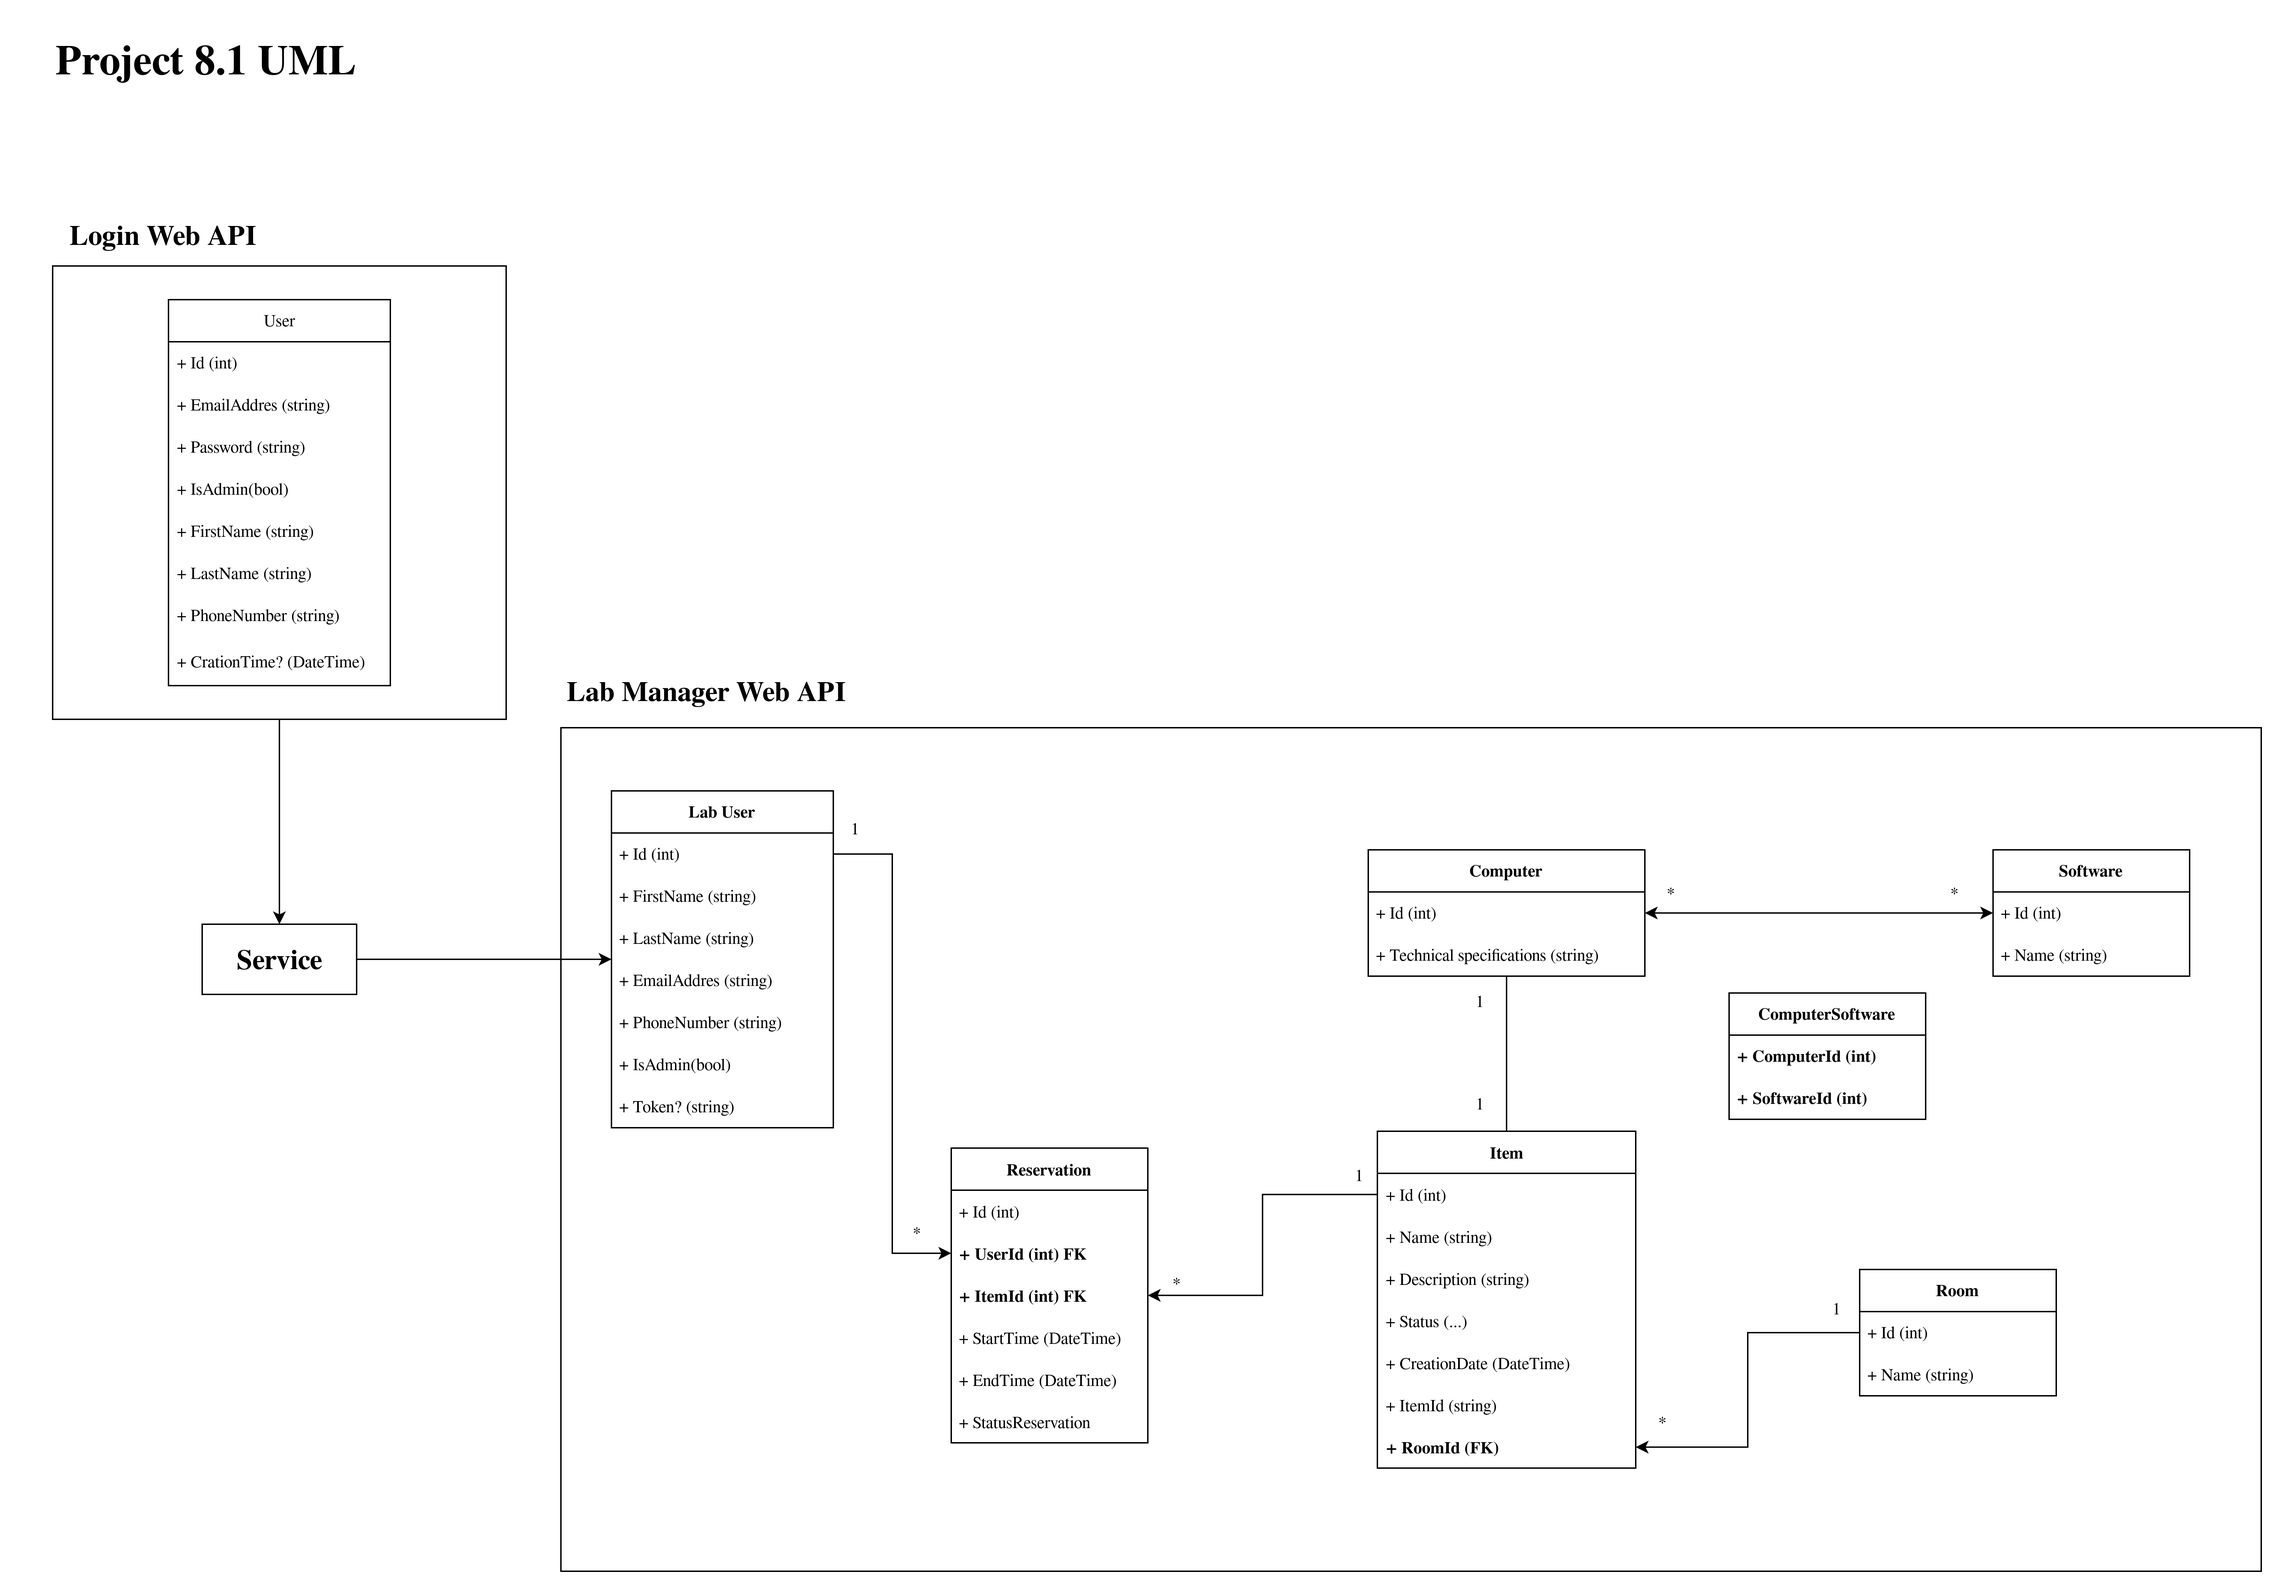
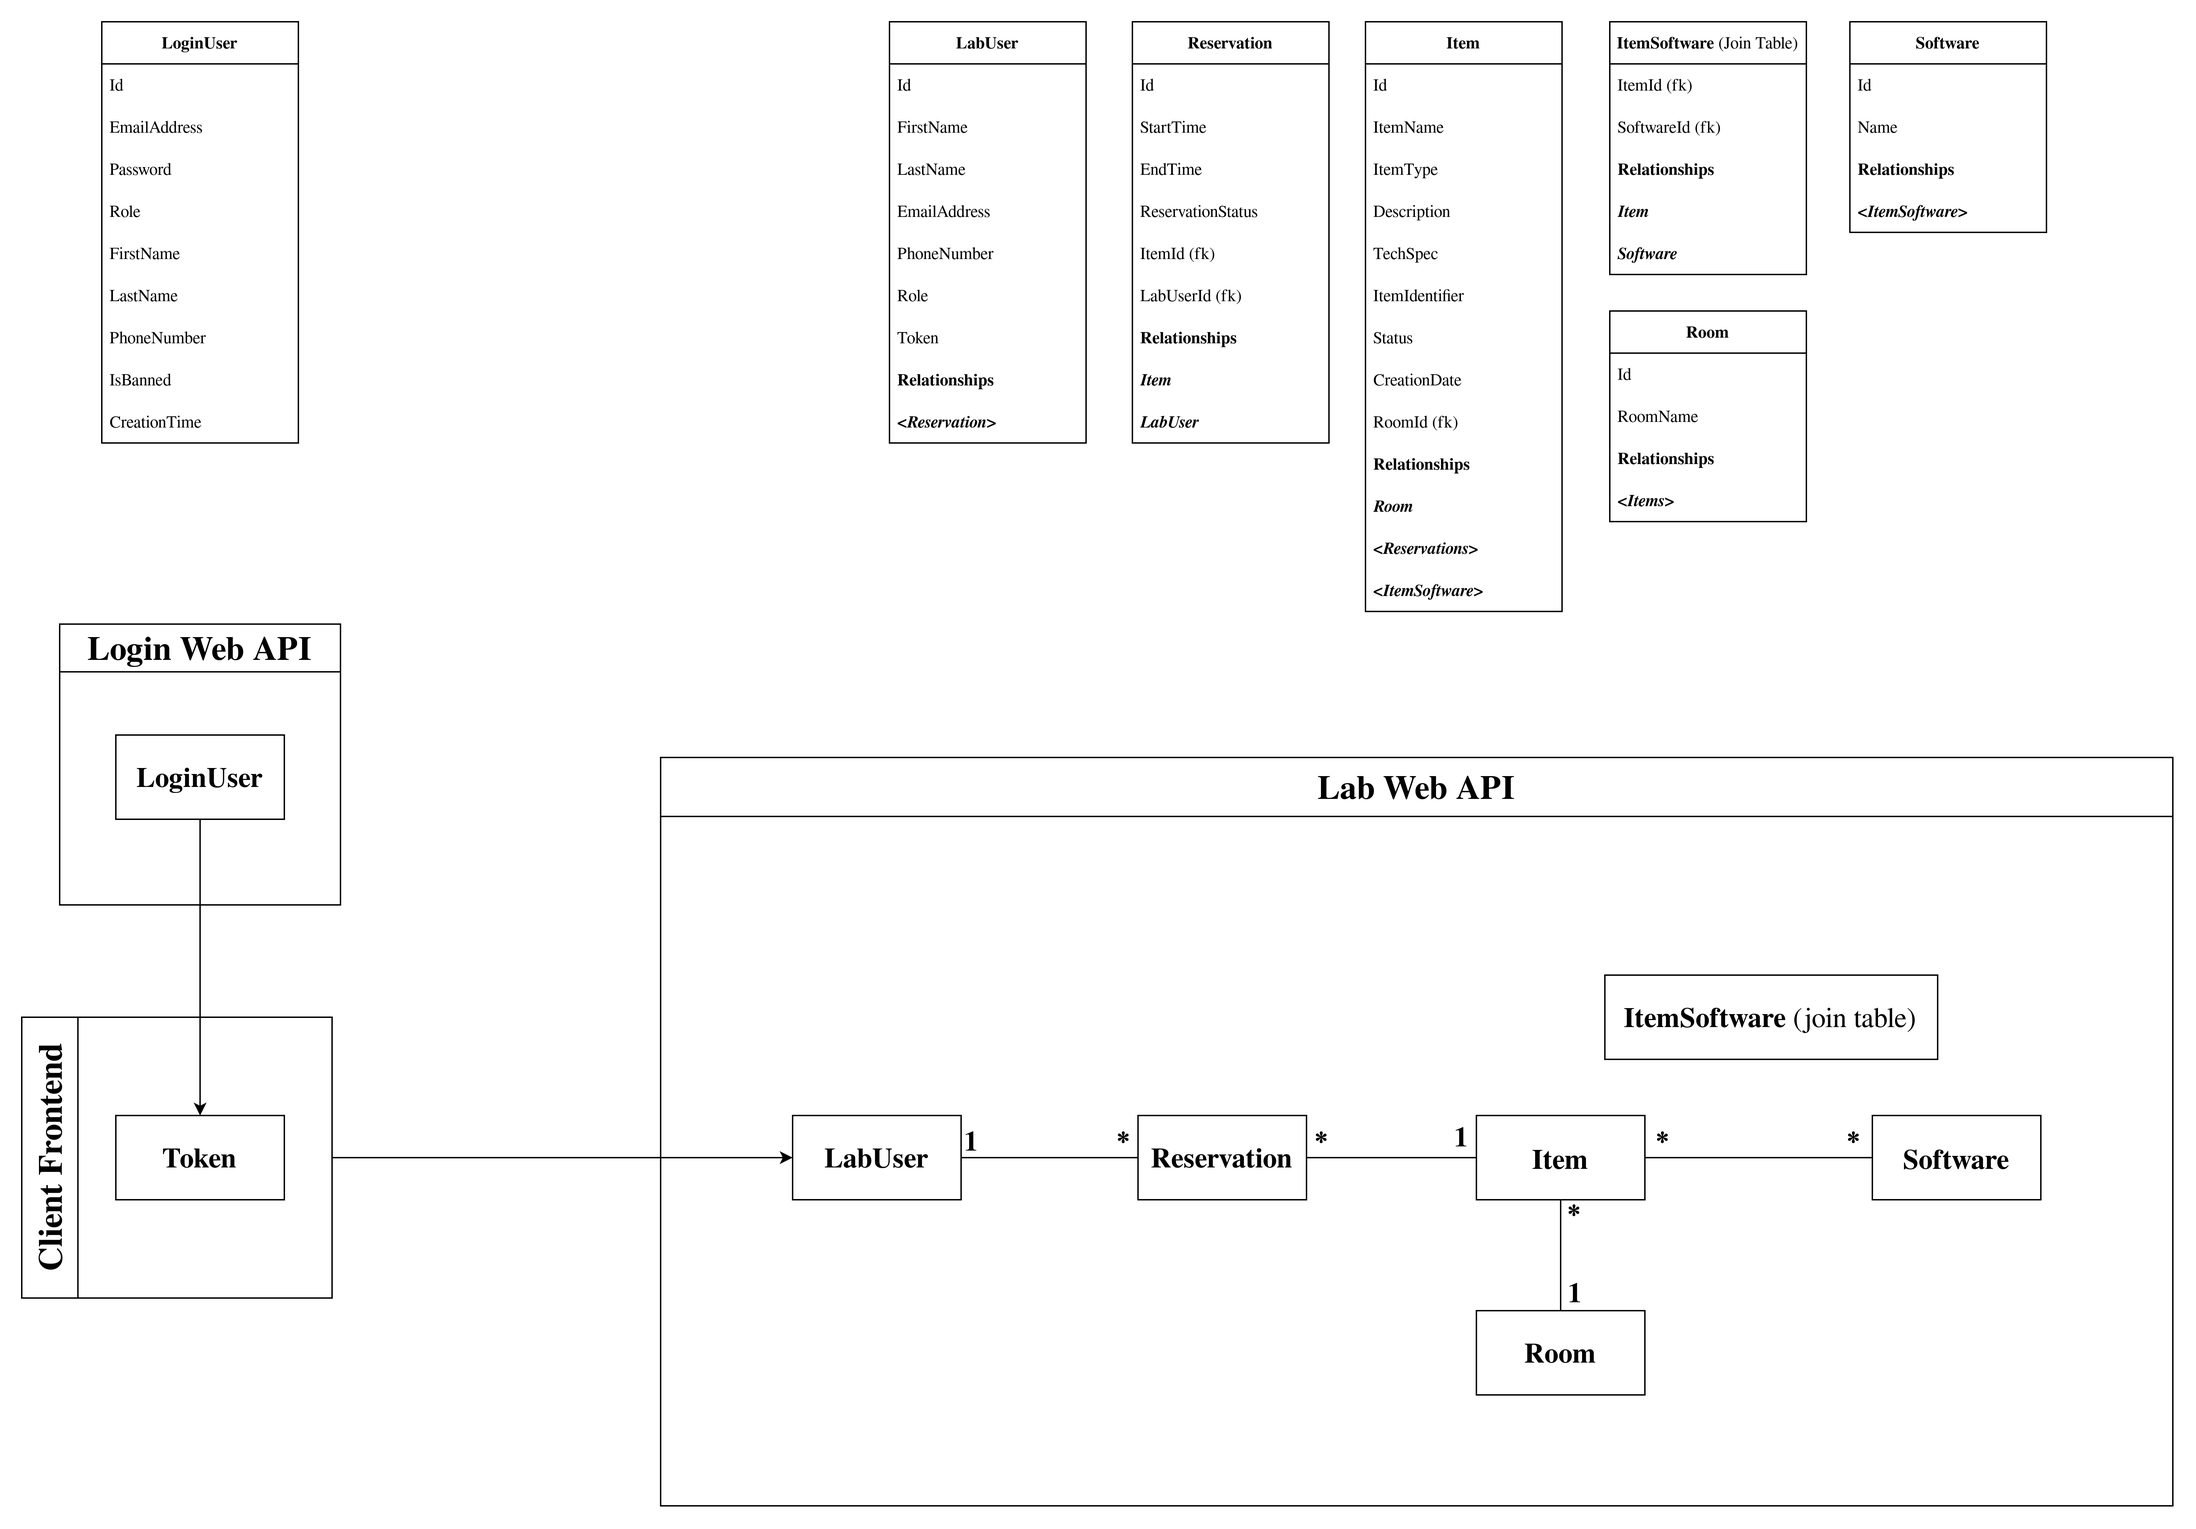
readme done and add uml

diff --git a/README.md b/README.md
@@ -1,29 +1,31 @@
 
 # Table of Contents
 
--   [Lecture info](#org1cc5e31)
-1.  [Developing Summary](#org2547c69)
-    1.  [Design](#orgc8f9d4a)
-    2.  [UML](#orgecf8b77)
-    3.  [Development order](#org35ffc5e)
-2.  [Start the Project](#org0dac9ff)
-3.  [Not Impemented](#orgbbaf03c)
+-   [Lecture info](#org5081be8)
+1.  [Developing Summary](#orgf5a5a4d)
+    1.  [Design](#org6c84c58)
+    2.  [UML](#org794ba08)
+    3.  [Development order](#orge9f3d4c)
+2.  [Start the Project](#orgc1b7afe)
+3.  [Not Impemented](#orged06a9e)
 
 
 
-<a id="org1cc5e31"></a>
+<a id="org5081be8"></a>
 
 # Lecture info
 
 -   Date: <span class="timestamp-wrapper"><span class="timestamp">[2023-11-07 Tue]</span></span>
 
+My github for commit history: [Project8.1](https://github.com/LudwigEffort/project_8_1)
 
-<a id="org2547c69"></a>
+
+<a id="orgf5a5a4d"></a>
 
 # Developing Summary
 
 
-<a id="orgc8f9d4a"></a>
+<a id="org6c84c58"></a>
 
 ## Design
 
@@ -43,7 +45,7 @@ The two microservices communicate with each other via the frontend with token, i
 3.  The **Lab Web API** authenticate sigle HTTP methods with token retrieved from local storage with Lab Frontend.
 
 
-<a id="orgecf8b77"></a>
+<a id="org794ba08"></a>
 
 ## UML
 
@@ -52,7 +54,7 @@ This is the **UML** of project:
 ![img](../docs/img/project_8_1_uml.png "Project 8.1 UML")
 
 
-<a id="org35ffc5e"></a>
+<a id="orge9f3d4c"></a>
 
 ## Development order
 
@@ -75,7 +77,7 @@ This is the **UML** of project:
 5.  Auth by token for **Lab Web API CURD**
 
 
-<a id="org0dac9ff"></a>
+<a id="orgc1b7afe"></a>
 
 # Start the Project
 
@@ -102,7 +104,7 @@ To start the project, start the servers in this order:
 > 5.  Run `dotnet run -- seeddata` in terminal
 
 
-<a id="orgbbaf03c"></a>
+<a id="orged06a9e"></a>
 
 # Not Impemented
 
